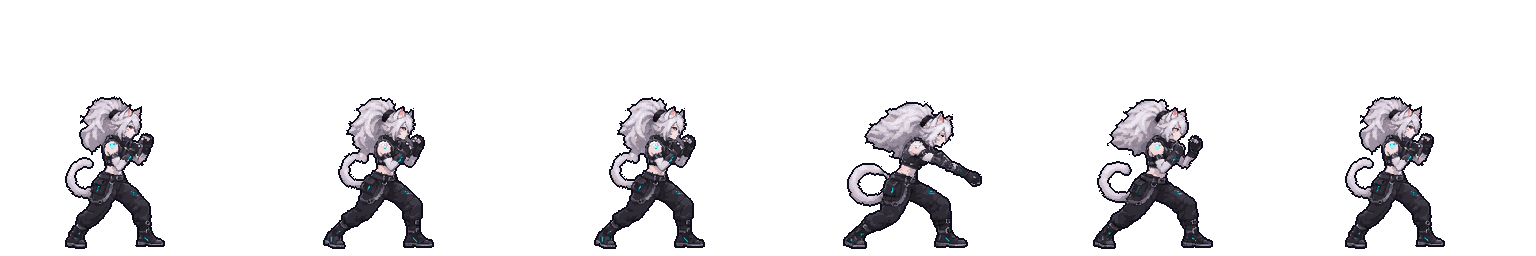
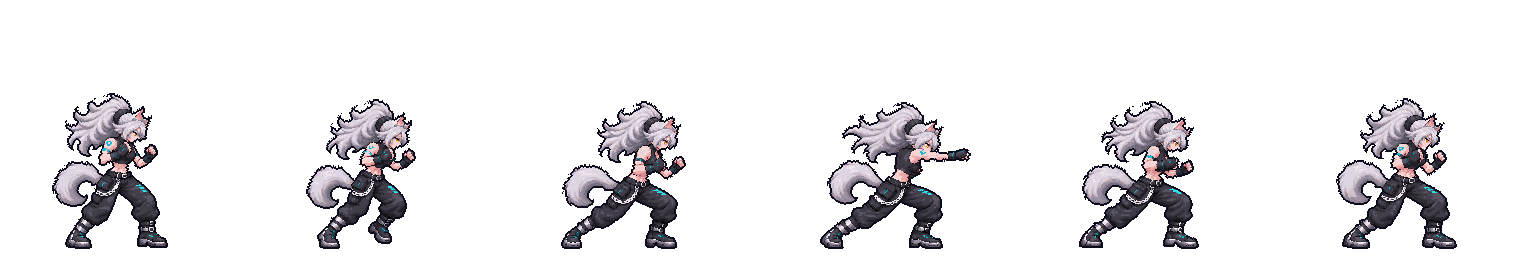
feat(feline) : le Pas de velours vient des nouvelles frames, en HD ×2
- forwardLight (6 frames, la 4e frappe) vient de la série ChatGPT : la garde, le pas,
  la fente et le direct, le retour, puis la garde, en 1x et en HD.
- La série est à la taille de la garde de référence ; elle est posée sur un repère fixe
  de la toile, car le jeu la fait déjà avancer de 14 px pendant le coup.
- Son poing arrive à environ 35 px devant ses pieds, pour une zone de frappe qui va
  jusqu'à 42 px : l'écart est accepté par le développeur. Le gameplay ne change pas.

Claude-Session: https://claude.ai/code/session_01JBLzLMjZS6VPwWpKajS2YB

diff --git a/tests/tools/feline-hd.test.ts b/tests/tools/feline-hd.test.ts
@@ -9,7 +9,7 @@ const atlasOf = async (path: string): Promise<Atlas> =>
   JSON.parse(new TextDecoder().decode(await readFile(art(path)))) as Atlas;
 
 describe('Feline in HD (tools/sprites/generate.ts keepHd)', () => {
-  it('shows her guard, walks, crouch, jumps, block and dash from their HD images, in both colorways', () => {
+  it('shows her guard, walks, crouch, jumps, block, dash and Pas de velours from their HD images, in both colorways', () => {
     expect(Object.keys(FELINE.hd ?? {})).toEqual([
       'idle',
       'walkForward',
@@ -19,6 +19,7 @@ describe('Feline in HD (tools/sprites/generate.ts keepHd)', () => {
       'jumpForward',
       'block',
       'dashForward',
+      'forwardLight',
     ]);
     expect(Object.keys(FELINE_ALT.hd ?? {})).toEqual([
       'idle',
@@ -29,6 +30,7 @@ describe('Feline in HD (tools/sprites/generate.ts keepHd)', () => {
       'jumpForward',
       'block',
       'dashForward',
+      'forwardLight',
     ]);
   });
 

diff --git a/src/art/feline/cells.ts b/src/art/feline/cells.ts
@@ -666,16 +666,16 @@ export const FELINE_CELLS: Readonly<Record<string, Cell>> = {
     ],
   },
   forwardLight: {
-    width: 153,
-    height: 157,
-    anchor: { x: 65, y: 154 },
+    width: 158,
+    height: 160,
+    anchor: { x: 81, y: 157 },
     frames: [
-      { x: 2, y: 2, width: 100, height: 153 },
-      { x: 4, y: 3, width: 111, height: 152 },
-      { x: 19, y: 3, width: 111, height: 152 },
-      { x: 12, y: 7, width: 139, height: 148 },
-      { x: 6, y: 5, width: 120, height: 150 },
-      { x: 2, y: 2, width: 100, height: 153 },
+      { x: 5, y: 2, width: 116, height: 156 },
+      { x: 3, y: 8, width: 110, height: 150 },
+      { x: 2, y: 10, width: 125, height: 148 },
+      { x: 5, y: 11, width: 151, height: 147 },
+      { x: 8, y: 10, width: 120, height: 148 },
+      { x: 9, y: 7, width: 121, height: 151 },
     ],
   },
   'fx/forwardLight': {
